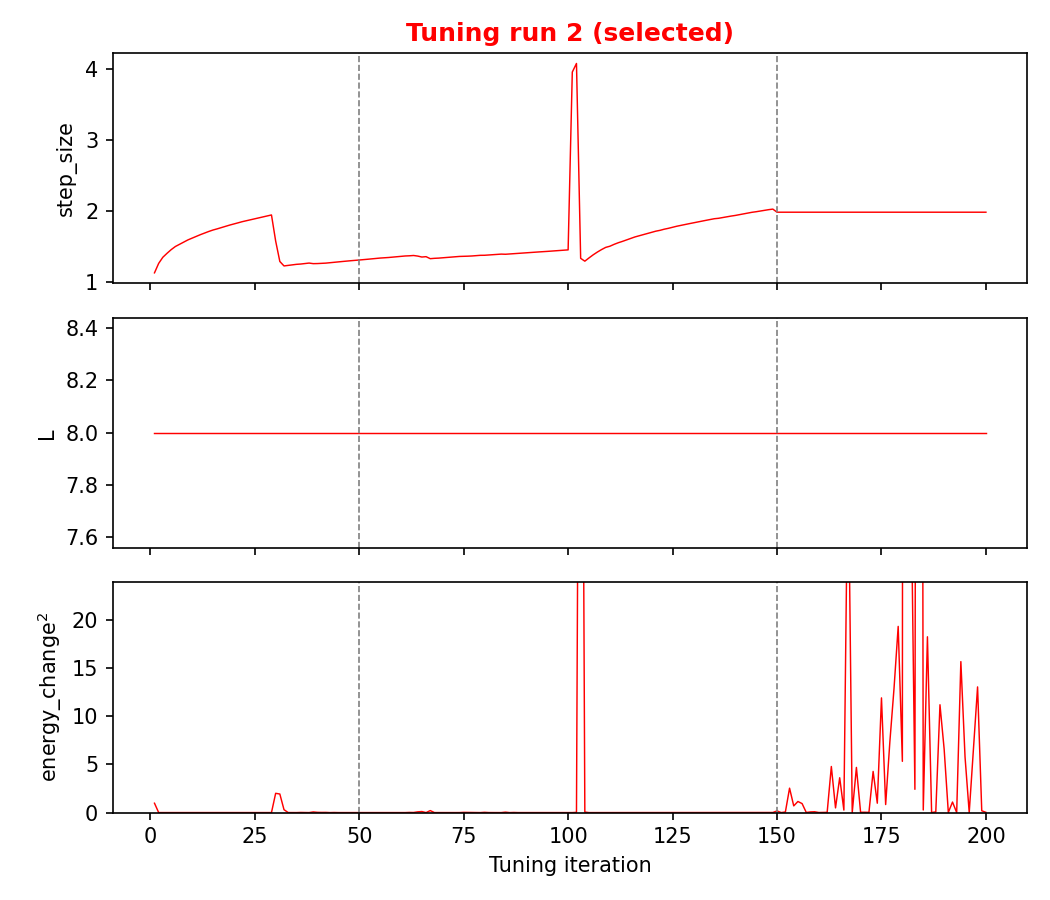
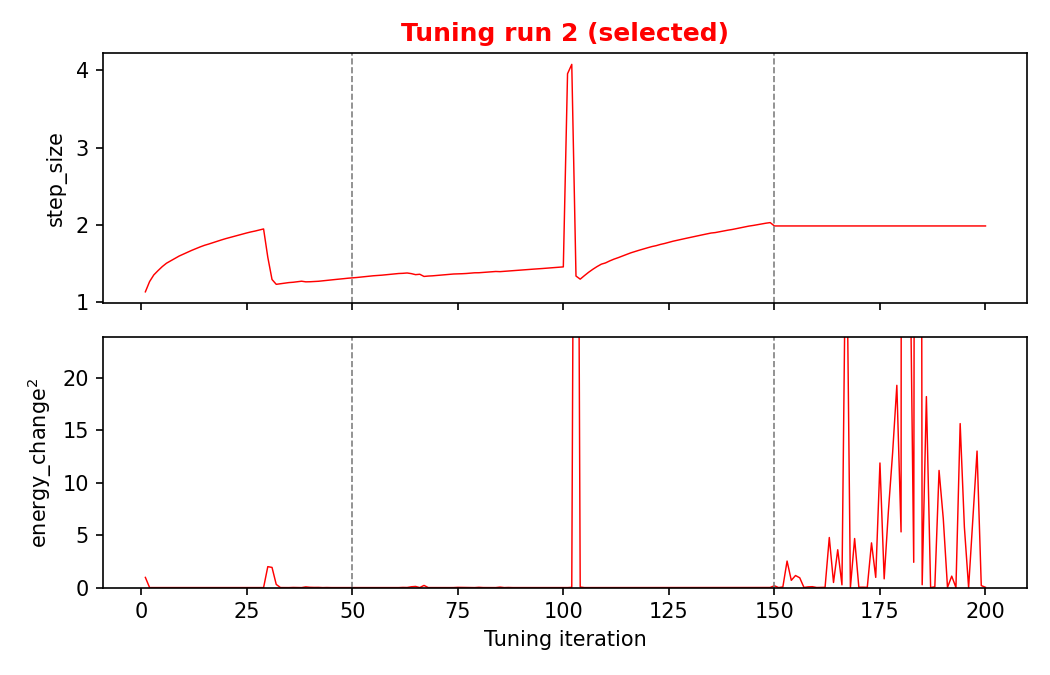
Drop L subplot from tuning traces, show traces before posterior
Tuning trace plots now show only step_size and energy_change^2
(2 subplots instead of 3). Tuning diagnostics are displayed
immediately after fitting, before posterior sampling results.

diff --git a/hsnpyr.py b/hsnpyr.py
@@ -1665,18 +1665,17 @@ def plot_mclmc_tuning_traces(result, filestem):
             continue
         i = r["idx"]
         ss = np.array(trace["step_size"])
-        L_arr = np.array(trace["L"])
         ev = np.array(trace["energy_var"])
         b1, b2 = trace["stage_boundaries"]
         iters = np.arange(1, len(ss) + 1)
 
-        fig, axes = plt.subplots(3, 1, figsize=(7, 6), sharex=True)
+        fig, axes = plt.subplots(2, 1, figsize=(7, 4.5), sharex=True)
         is_selected = (i == selected_idx)
 
         for ax, data, label in zip(
             axes,
-            [ss, L_arr, ev],
-            ["step_size", "L", "energy_change$^2$"],
+            [ss, ev],
+            ["step_size", "energy_change$^2$"],
         ):
             ax.plot(iters, data, linewidth=0.7,
                     color="red" if is_selected else "steelblue")
@@ -1688,7 +1687,7 @@ def plot_mclmc_tuning_traces(result, filestem):
         # Crop energy_var y-axis to 95th percentile so the trend is visible
         ev_upper = float(np.percentile(ev, 95)) * 2.0
         if ev_upper > 0:
-            axes[2].set_ylim(0, ev_upper)
+            axes[1].set_ylim(0, ev_upper)
 
         axes[-1].set_xlabel("Tuning iteration")
         title = f"Tuning run {i + 1}"
@@ -2167,9 +2166,13 @@ def run_analysis(df, y_col, unpenalized_cols, penalized_cols, filestem,
             "penalized_cols": list(penalized_cols),
         }
 
-    # --- 4. In-sample diagnostics ---
+    # --- 4. Tuning diagnostics (before posterior summaries) ---
     is_nuts = sampler == "nuts"
+    if not is_nuts and getattr(result, "tuning_results", None) is not None:
+        plot_mclmc_tuning(result, filestem)
+        plot_mclmc_tuning_traces(result, filestem)
 
+    # --- 5. In-sample diagnostics ---
     unpenalized_names = ["Intercept"] + list(unpenalized_cols)
     summary_report(result, filestem + "_summary.csv",
                    unpenalized_names=unpenalized_names,
@@ -2218,12 +2221,9 @@ def run_analysis(df, y_col, unpenalized_cols, penalized_cols, filestem,
         plot_pairs(result, filestem)
         plot_trace(result, filestem, penalized_names=list(penalized_cols))
         plot_autocorr(result, filestem, penalized_names=list(penalized_cols))
-        if getattr(result, "tuning_results", None) is not None:
-            plot_mclmc_tuning(result, filestem)
-            plot_mclmc_tuning_traces(result, filestem)
     plot_wevid(w, filestem)
 
-    # --- 5. Projpred ---
+    # --- 6. Projpred ---
     projpred_result = None
     if projpred_V is not None:
         print("\n" + "=" * 60)
@@ -2241,7 +2241,7 @@ def run_analysis(df, y_col, unpenalized_cols, penalized_cols, filestem,
                            "kl_null": kl_null,
                            "selected_names": [penalized_cols[j] for j in selected]}
 
-    # --- 6. Return ---
+    # --- 7. Return ---
     return {
         "result": result,
         "N": N, "n_controls": n_controls, "n_cases": n_cases,

diff --git a/README.md b/README.md
@@ -308,9 +308,9 @@ The selected run (median step size) is marked with a red diamond:
 
 #### Tuning trace plots
 
-The per-iteration trace plots reveal the within-run dynamics of
-BlackJAX's 3-stage tuning algorithm.  Vertical dashed lines mark
-the stage boundaries.
+The per-iteration trace plots show step_size and energy_change^2
+through BlackJAX's 3-stage tuning.  Vertical dashed lines mark
+stage boundaries.
 
 **Selected run (run 2):**
 
@@ -344,10 +344,6 @@ lines:
 3. **Stage 3** (iterations 150 onwards): step size is fixed, and L
    (trajectory length) is set from the effective sample size of a
    short sampling run.
-
-**L (trajectory length)** stays constant at sqrt(dim) = 8.0 throughout
-stages 1--2.  Only after stage 3 does L change to its ESS-based value
-(5.4--8.6 across runs).
 
 **energy_change^2** (the energy variance proxy) is spiky throughout,
 reflecting the heavy-tailed geometry of the horseshoe posterior.  The
